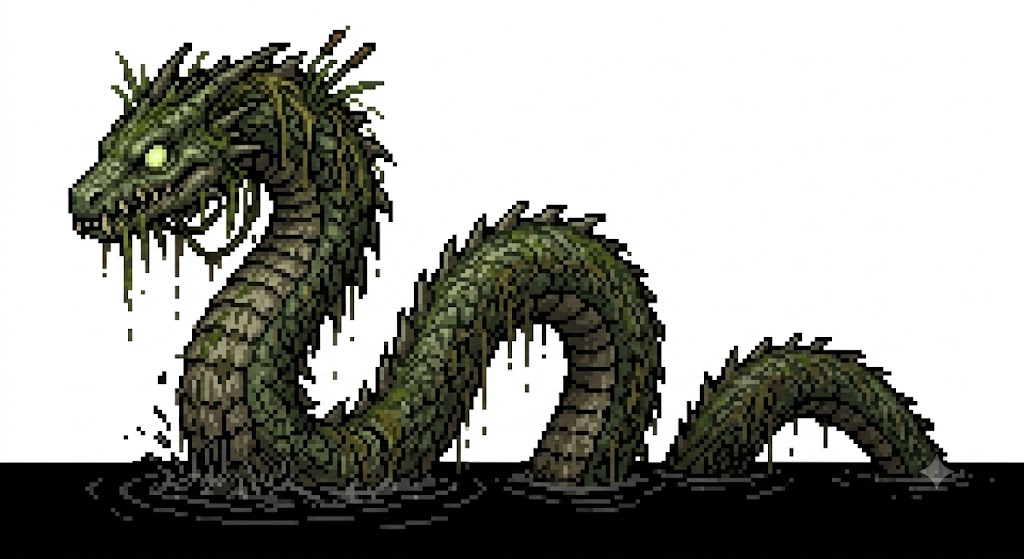
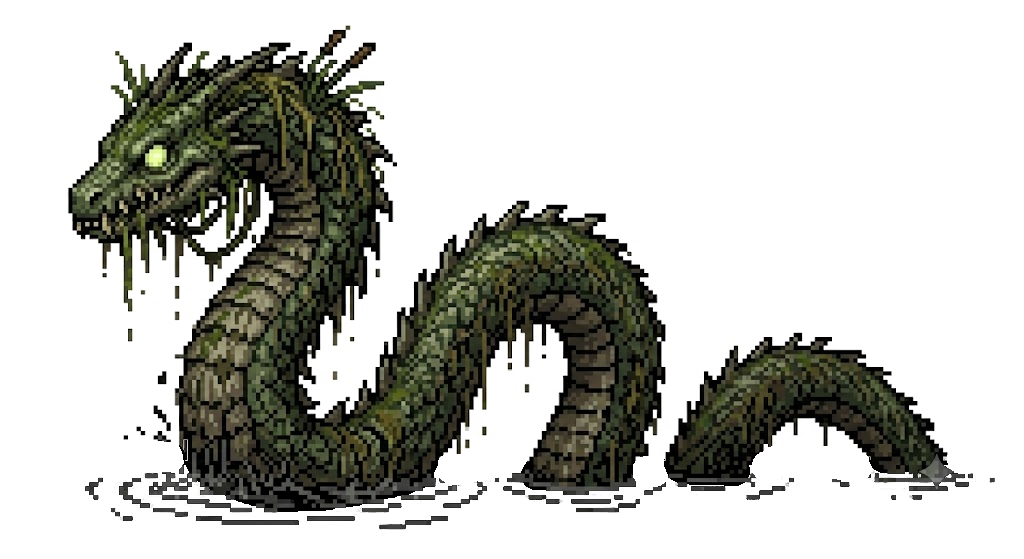
asd

Changed region(s): [[0.0, 0.7907, 1.0, 1.0]]

diff --git a/src/app/undercity/engine/plaza-canvas.ts b/src/app/undercity/engine/plaza-canvas.ts
@@ -44,6 +44,9 @@ const MAX_LEVEL = 12;
 // at draw time, so a 1024px dragon and a 64px imp render at one height), then let
 // tier set the real hierarchy. 90px keeps a T1 starter at its previous size.
 const NORMALIZED_SPRITE_PX = 90;
+// Fixed on-screen scale for status bubbles (~= a mid tier-1 creature's old
+// d.scale*2), so bubble legibility doesn't depend on creature tier/level.
+const BUBBLE_SCALE = 2.2;
 // Intended size hierarchy: each tier is 50% larger than the one below.
 const TIER_SCALE: Record<number, number> = { 1: 1, 2: 1.5, 3: 2.25 };
 
@@ -994,8 +997,11 @@ export class PlazaCanvas {
     isOwn: boolean,
   ): void {
     const ctx = this.ctx;
-    // Draw the whole bubble twice as large so status text reads clearly.
-    scale *= 2;
+    // Bubbles read at a fixed world-space size regardless of the creature's
+    // tier/level sprite scale. Tying it to d.scale made low-tier/low-level
+    // creatures show unreadably tiny bubbles (and maxed ones comically huge).
+    // The head-position offset already accounts for sprite size via headTop.
+    scale = BUBBLE_SCALE;
     // Your own status is drawn larger so it reads clearly above your creature.
     const sizeMul = isOwn ? 9 : 6;
     const fontSize = Math.round(sizeMul * scale);

diff --git a/src/app/undercity/tabs/interactive-battle.component.scss b/src/app/undercity/tabs/interactive-battle.component.scss
@@ -930,7 +930,7 @@
   font-size: 1.35rem;
   color: #f87171;
   text-shadow: 0 2px 4px rgba(0, 0, 0, 0.85);
-  animation: uc-pop 0.55s ease forwards;
+  animation: uc-pop 0.9s ease forwards;
   pointer-events: none;
   &.heal { color: #86efac; }
   &.miss { color: #cdd8cd; font-size: 1rem; }
@@ -946,7 +946,8 @@
 
 @keyframes uc-pop {
   0% { opacity: 0; transform: translate(-50%, 6px) scale(0.7); }
-  20% { opacity: 1; transform: translate(-50%, -4px) scale(1.15); }
+  12% { opacity: 1; transform: translate(-50%, -4px) scale(1.15); }
+  70% { opacity: 1; transform: translate(-50%, -14px) scale(1); }
   100% { opacity: 0; transform: translate(-50%, -24px) scale(1); }
 }
 

diff --git a/src/app/undercity/tabs/interactive-battle.component.ts b/src/app/undercity/tabs/interactive-battle.component.ts
@@ -492,7 +492,7 @@ export class InteractiveBattleComponent implements OnInit, OnDestroy {
       if (!e.dmg) this.pop.set({ side: healer, text: `+${e.heal}`, kind: 'heal' });
     }
 
-    this.timers.push(setTimeout(() => this.pop.set(null), 520));
+    this.timers.push(setTimeout(() => this.pop.set(null), 880));
   }
 
   /**